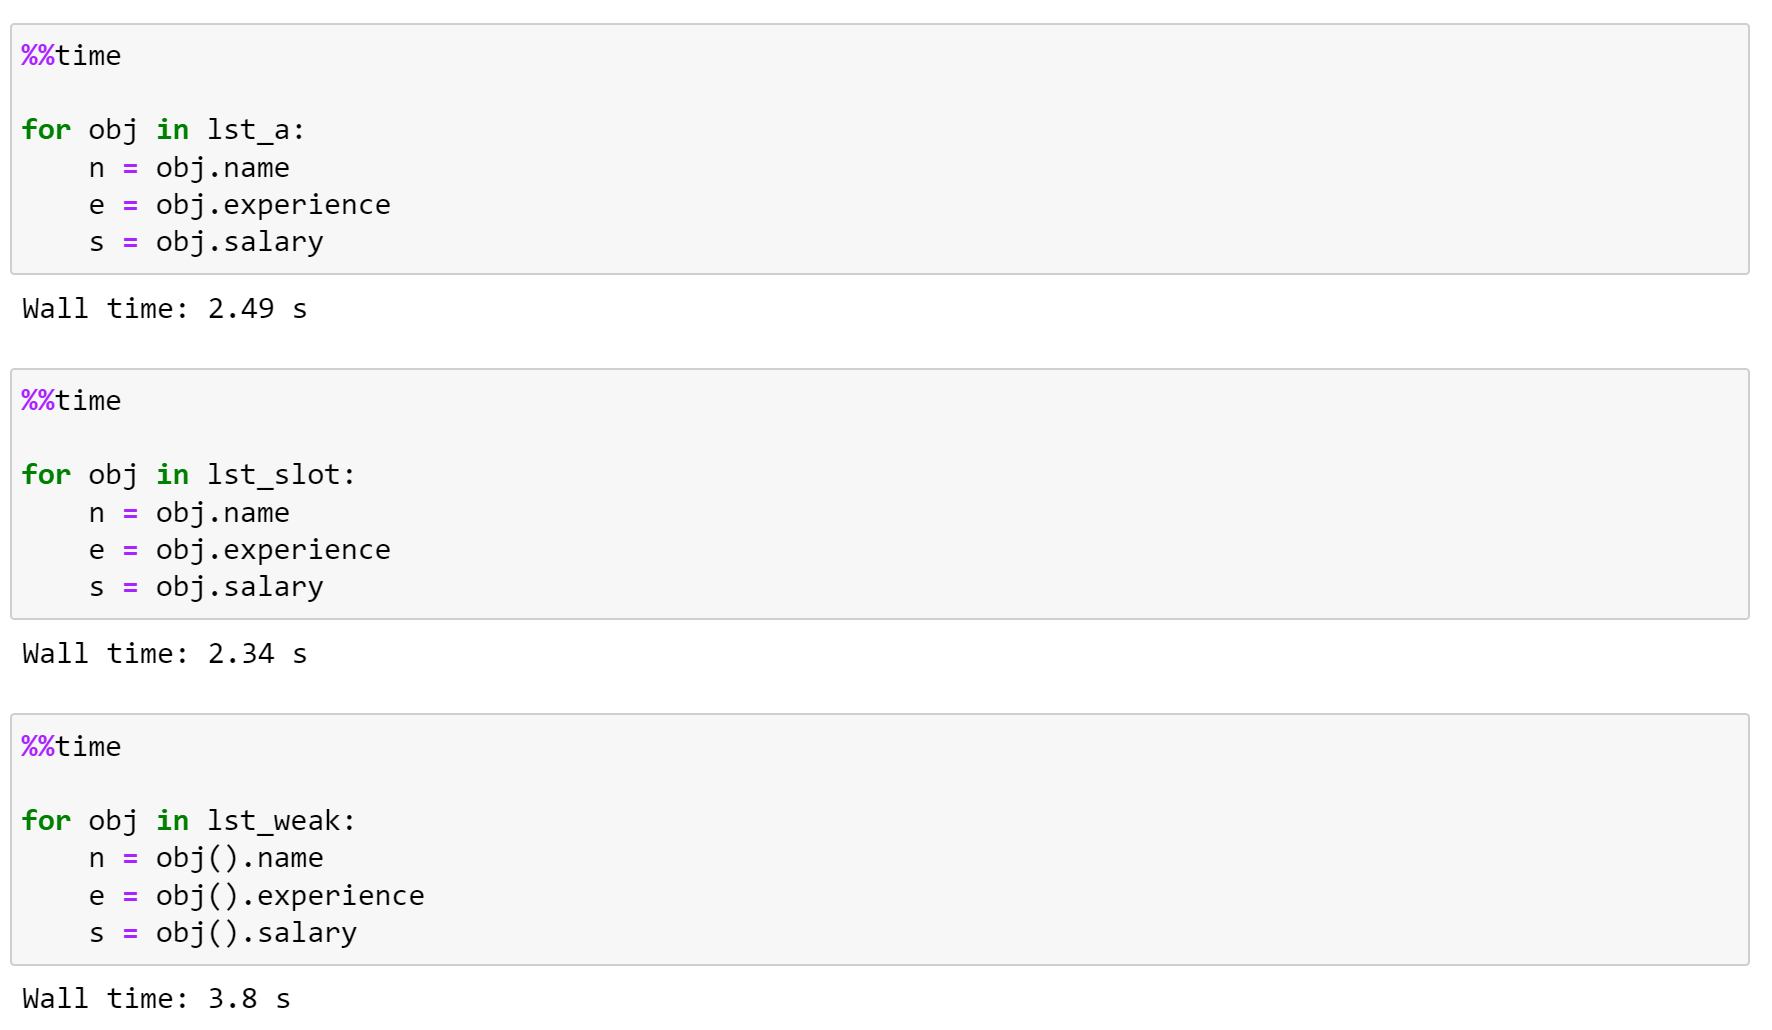
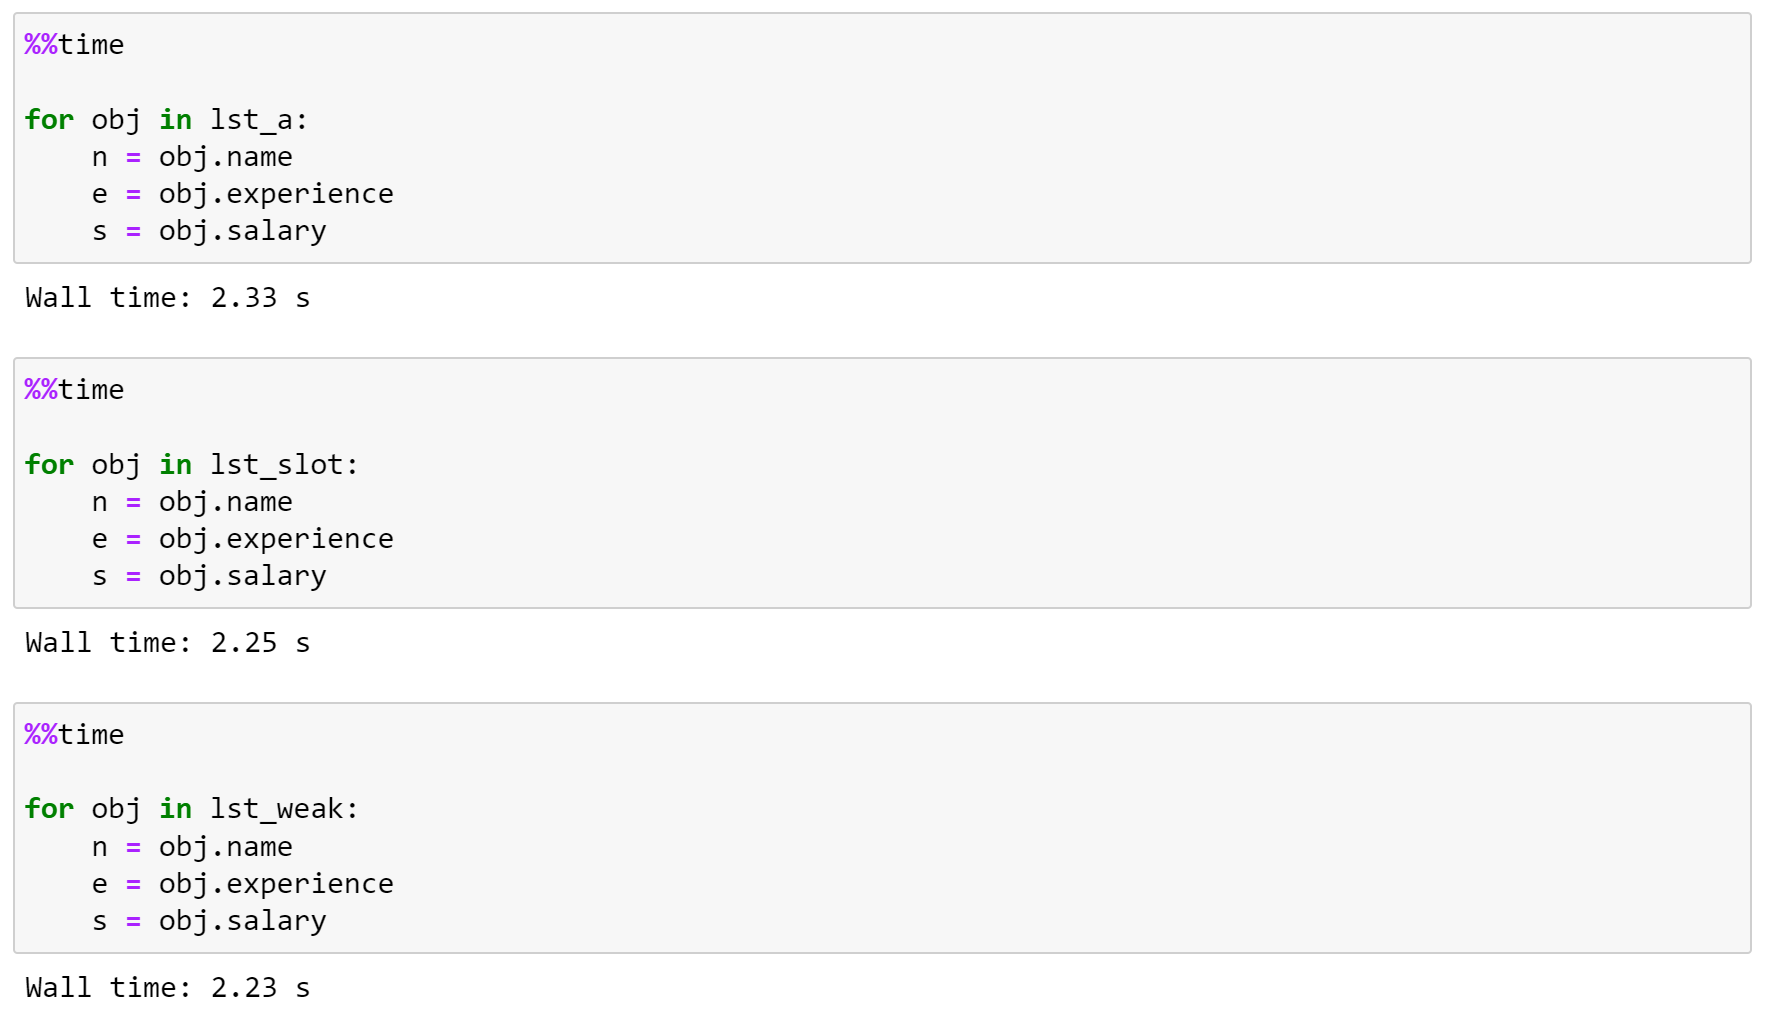
update weakref and deco

diff --git a/advance_05/deco_profile.py b/advance_05/deco_profile.py
@@ -1,12 +1,10 @@
-import weakref
 import itertools
 import cProfile
 import pstats
-import io
 
 
 class Employee:
-    def __init__(self, name:str, experience:int, salary:int):
+    def __init__(self, name: str, experience: int, salary: int):
         self.name = name
         self.experience = experience
         self.salary = salary
@@ -15,30 +13,49 @@ class Employee:
 class SlotEmployee:
     __slots__ = ("name", "experience", "salary")
 
-    def __init__(self, name:str, experience:int, salary:int):
+    def __init__(self, name: str, experience: int, salary: int):
         self.name = name
         self.experience = experience
         self.salary = salary
 
 
-def profileit(name):
-    def inner(func):
-        def wrapper(*args, **kwargs):
-            prof = cProfile.Profile()
-            retval = prof.runcall(func, *args, **kwargs)
-            prof.dump_stats(name)
-            return retval
+class WeakRefEmployee:
+    __slots__ = ("name", "experience", "salary", "__weakref__")
 
-        return wrapper
-
-    return inner
+    def __init__(self, name, experience, salary):
+        self.name = name
+        self.experience = experience
+        self.salary = salary
 
 
-@profileit("profile_for_func")
+class ProfileDeco:
+    def __init__(self, func):
+        self.func = func
+        self.profiler = cProfile.Profile()
+        self.stats = None
+
+    def __call__(self, *args, **kwargs):
+        result = self.profiler.runcall(self.func, *args, **kwargs)
+        self.stats = pstats.Stats(self.profiler)
+        return result
+
+    def print_stats(self):
+        self.stats.print_stats()
+
+
+def create_params(amount: int):
+    names = ["Alice", "Bob", "Peter"]
+    exp = [1, 2, 5, 10]
+    sal = list(range(1, amount, 10))
+    params = list(itertools.product(names, exp, sal))
+    return params
+
+
+@ProfileDeco
 def run(params):
     lst_a = [Employee(*i) for i in params]
     lst_slot = [SlotEmployee(*i) for i in params]
-    lst_weak = [weakref.ref(obj) for obj in lst_a]
+    lst_weak = [WeakRefEmployee(*i) for i in params]
 
     del lst_a
     del lst_slot
@@ -46,13 +63,7 @@ def run(params):
 
 
 if __name__ == "__main__":
-    N = 10_000_000
-    names = ["Alice", "Bob", "Peter"]
-    exp = [1, 2, 5, 10]
-    sal = list(range(1, N, 10))
-    empl_params = list(itertools.product(names, exp, sal))  # 12000000 emploees
+    N = 100_000
+    empl_params = create_params(N)  # 120000 employes
     run(empl_params)
-    s = io.StringIO()
-    pr = pstats.Stats("profile_for_func")
-    pr.print_stats()
-    print(s.getvalue())
+    run.print_stats()

diff --git a/advance_05/profile_memory.py b/advance_05/profile_memory.py
@@ -1,10 +1,9 @@
-import weakref
 import itertools
 from memory_profiler import profile
 
 
 class Employee:
-    def __init__(self, name:str, experience:int, salary:int):
+    def __init__(self, name: str, experience: int, salary: int):
         self.name = name
         self.experience = experience
         self.salary = salary
@@ -13,17 +12,34 @@ class Employee:
 class SlotEmployee:
     __slots__ = ("name", "experience", "salary")
 
-    def __init__(self, name:str, experience:int, salary:int):
+    def __init__(self, name: str, experience: int, salary: int):
         self.name = name
         self.experience = experience
         self.salary = salary
+
+
+class WeakRefEmployee:
+    __slots__ = ("name", "experience", "salary", "__weakref__")
+
+    def __init__(self, name, experience, salary):
+        self.name = name
+        self.experience = experience
+        self.salary = salary
+
+
+def create_params(amount: int):
+    names = ["Alice", "Bob", "Peter"]
+    exp = [1, 2, 5, 10]
+    sal = list(range(1, amount, 10))
+    params = list(itertools.product(names, exp, sal))
+    return params
 
 
 @profile
 def run(params):
     lst_a = [Employee(*i) for i in params]
     lst_slot = [SlotEmployee(*i) for i in params]
-    lst_weak = [weakref.ref(obj) for obj in lst_a]
+    lst_weak = [WeakRefEmployee(*i) for i in params]
 
     del lst_a
     del lst_slot
@@ -31,11 +47,6 @@ def run(params):
 
 
 if __name__ == "__main__":
-    N = 10_000_000
-    names = ["Alice", "Bob", "Peter"]
-    exp = [1, 2, 5, 10]
-    sal = list(range(1, N, 10))
-    empl_params = list(
-        itertools.product(names, exp, sal)
-    )  # 12000000 emploees
+    N = 100_000
+    empl_params = create_params(N)  # 120000 employes
     run(empl_params)
